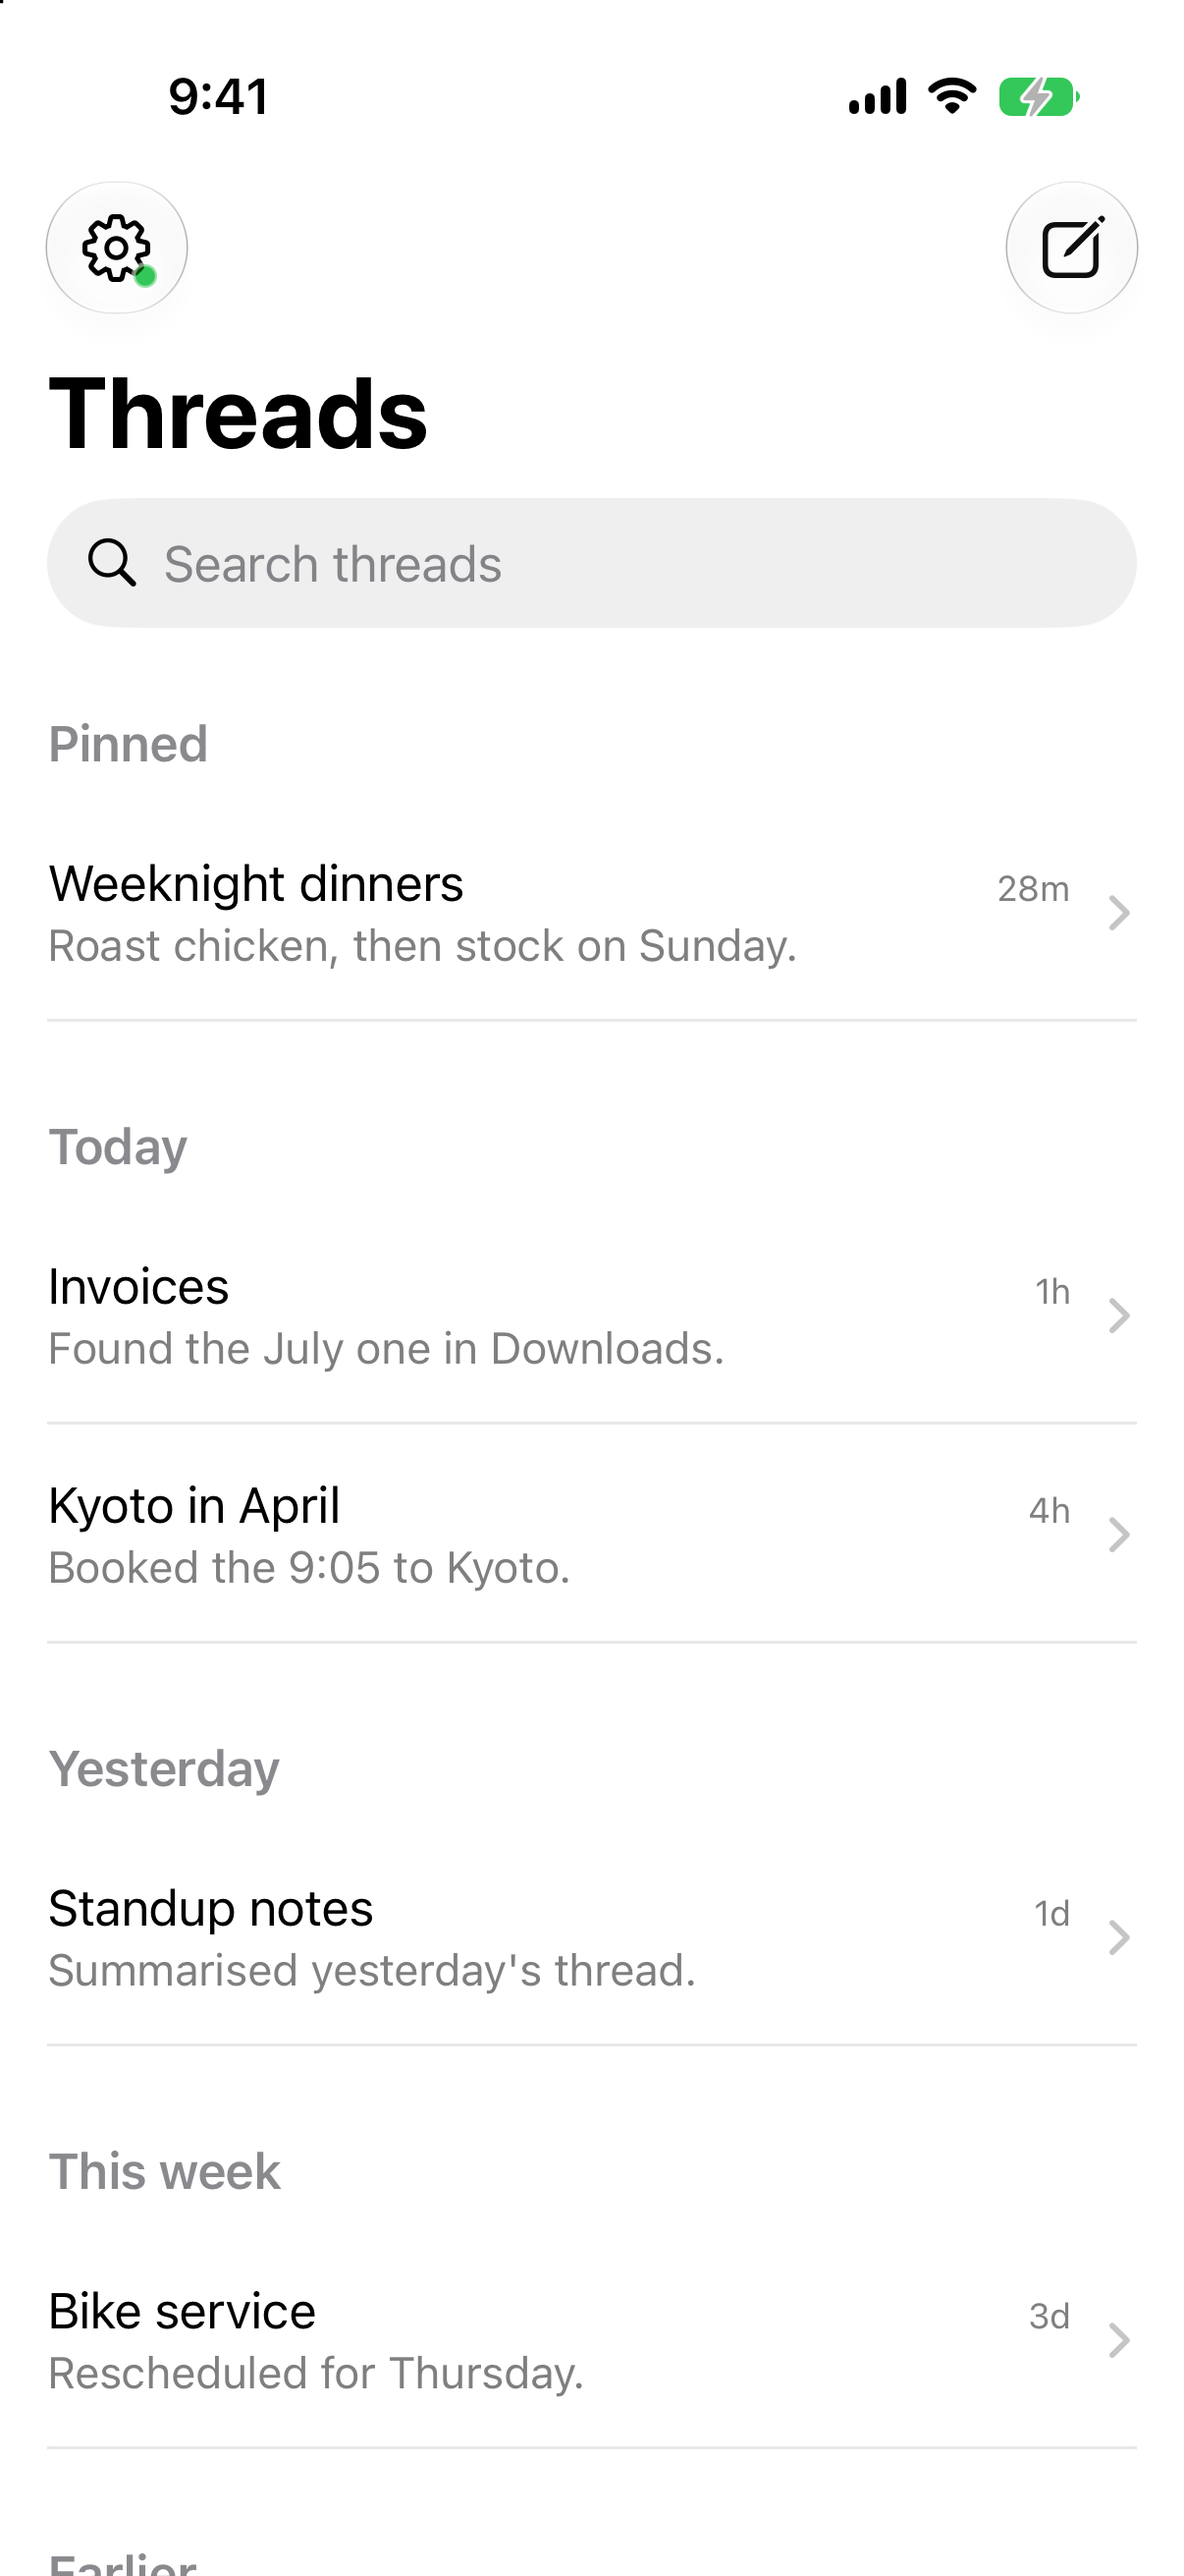
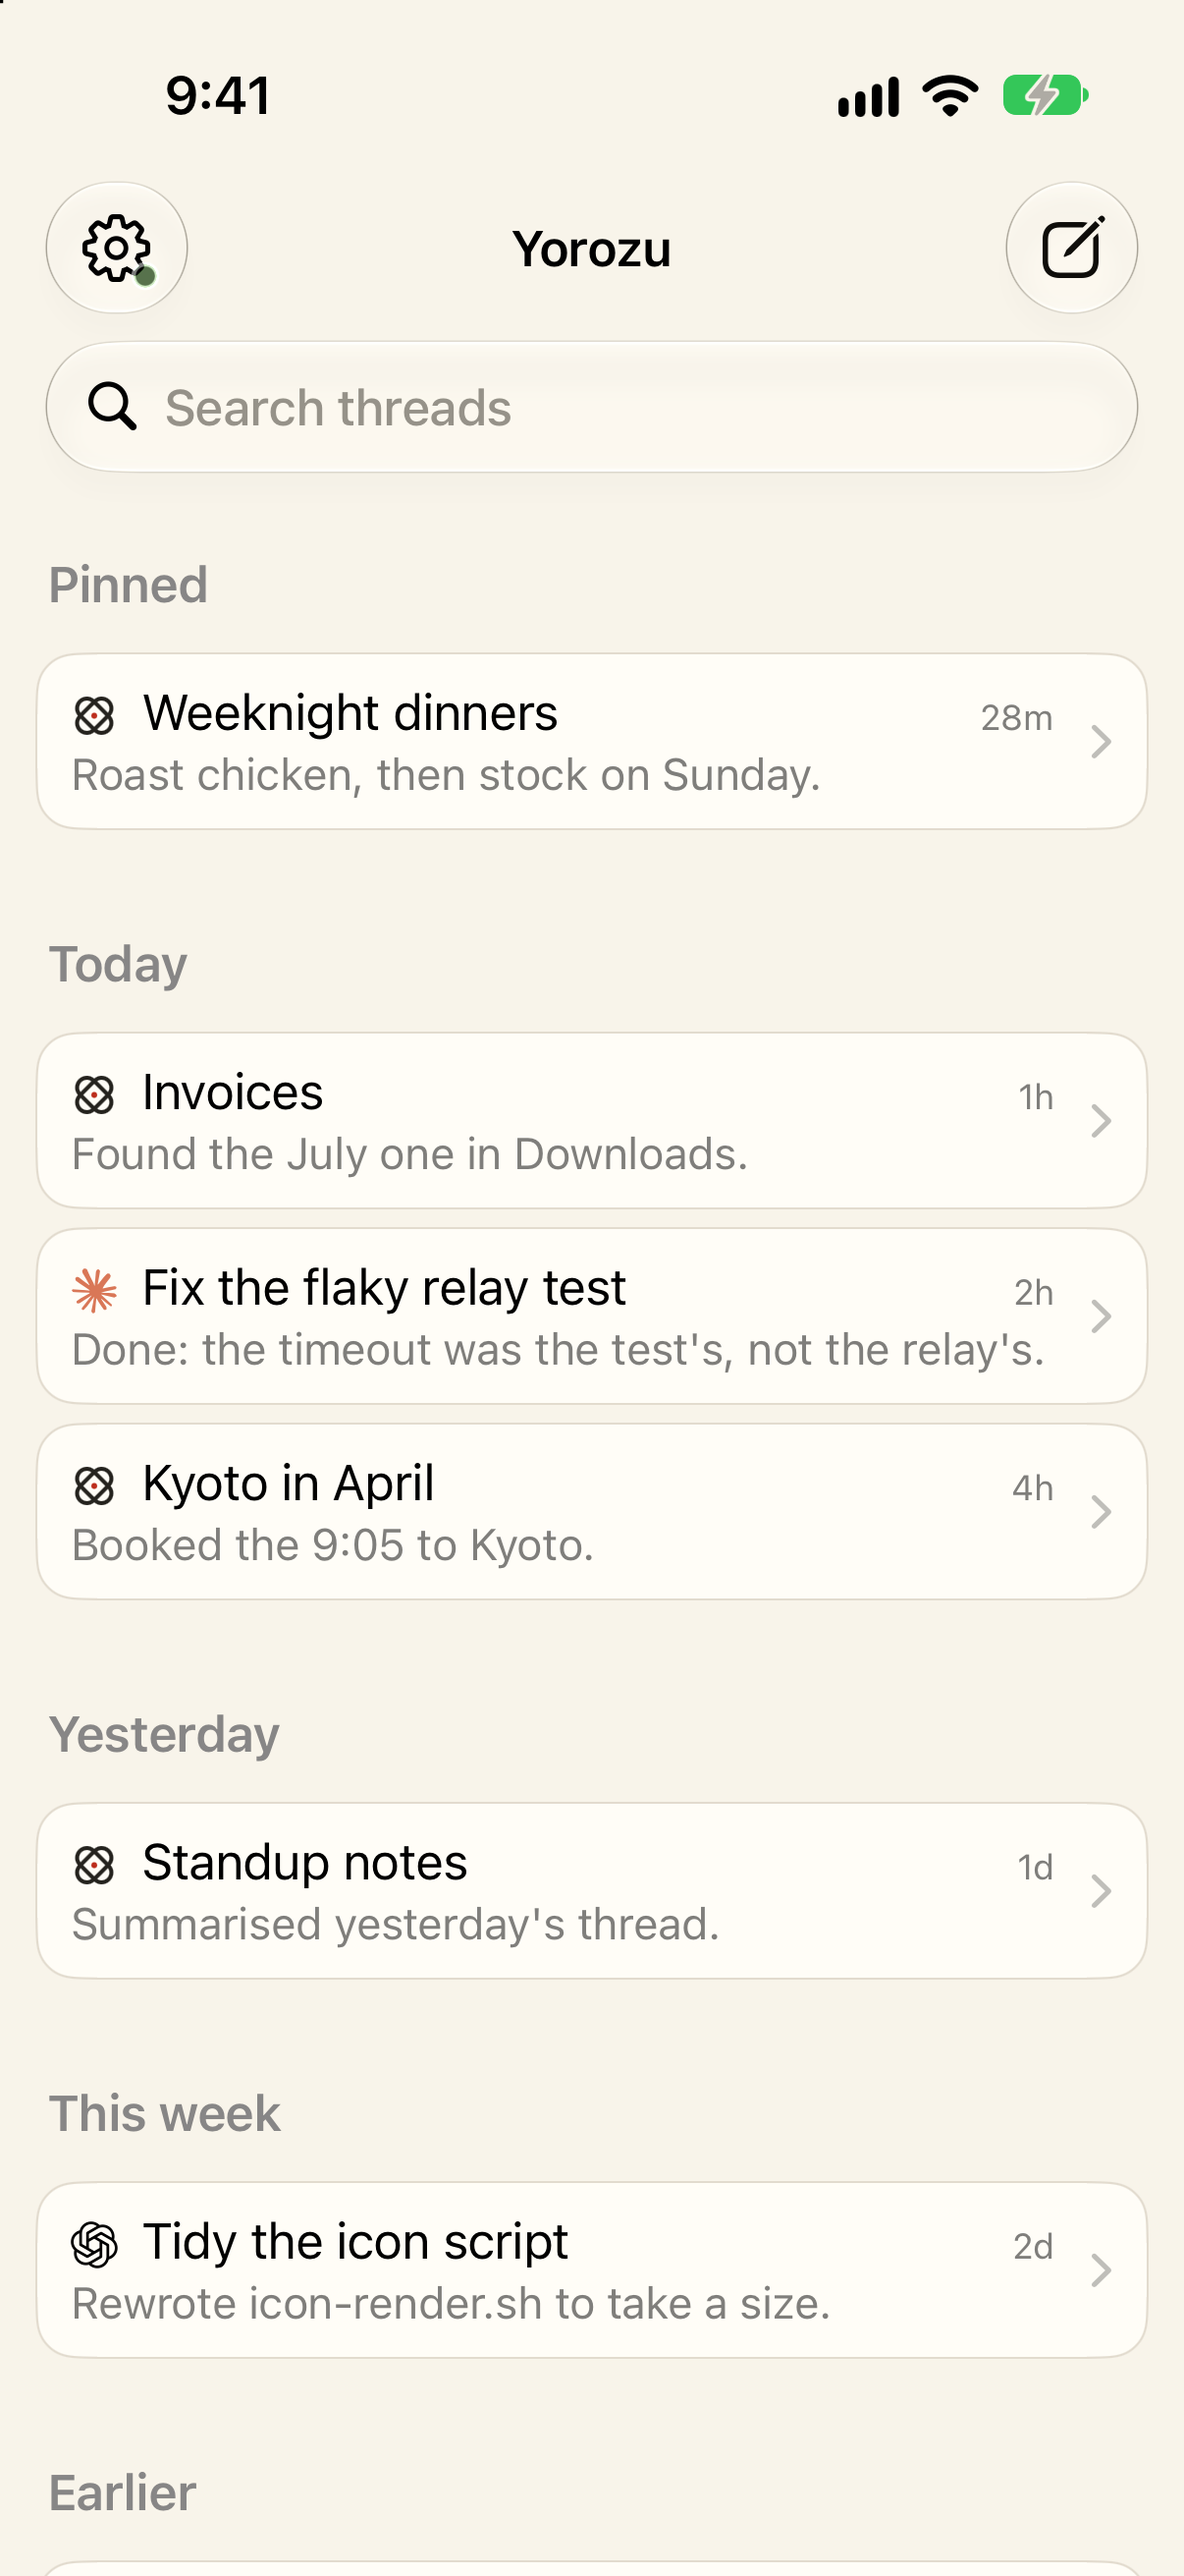
feat(ui): show Claude Code and Codex as their marks alone
Drop the "Codex" text beside the OpenAI Blossom in thread rows so both
coding agents are identified by their mark only; the agent name stays as
the VoiceOver label.

diff --git a/packages/shared-swift/Sources/YorozuShared/AgentIdentity.swift b/packages/shared-swift/Sources/YorozuShared/AgentIdentity.swift
@@ -45,8 +45,8 @@ public struct AgentMarkView: View {
     }
 }
 
-/// A compact, accessible identity for a coding-agent row. Codex keeps the OpenAI company mark
-/// paired with its product name because OpenAI does not publish a separate Codex product icon.
+/// A compact, accessible identity for a coding-agent row: the mark alone, with the agent's name
+/// for VoiceOver.
 public struct AgentIdentifierView: View {
     private let agent: ThreadAgent
     private let size: CGFloat
@@ -57,17 +57,10 @@ public struct AgentIdentifierView: View {
     }
 
     public var body: some View {
-        HStack(alignment: .firstTextBaseline, spacing: 4) {
-            AgentMarkView(agent, size: size)
-                // Sit the mark on the text's baseline the way a capital does, not above it.
-                .alignmentGuide(.firstTextBaseline) { $0.height * 0.8 }
-            if agent.markRequiresProductName {
-                Text(agent.label)
-                    .font(.caption2.weight(.medium))
-                    .foregroundStyle(.secondary)
-            }
-        }
-        .fixedSize()
+        AgentMarkView(agent, size: size)
+            // Sit the mark on the text's baseline the way a capital does, not above it.
+            .alignmentGuide(.firstTextBaseline) { $0.height * 0.8 }
+            .fixedSize()
         .accessibilityElement(children: .ignore)
         .accessibilityLabel(agent.label)
     }

diff --git a/packages/shared-swift/Sources/YorozuShared/ThreadListView.swift b/packages/shared-swift/Sources/YorozuShared/ThreadListView.swift
@@ -227,8 +227,7 @@ struct ThreadRow: View {
         HStack(alignment: .center, spacing: 10) {
             VStack(alignment: .leading, spacing: 2) {
                 HStack(alignment: .firstTextBaseline, spacing: 8) {
-                    // Every thread wears its agent's mark, Yorozu's own knot included. Codex pairs
-                    // OpenAI's mark with text because no Codex mark is published.
+                    // Every thread wears its agent's mark, Yorozu's own knot included.
                     AgentIdentifierView(thread.agent ?? .yorozu, size: mark)
                     highlightedText(thread.displayTitle)
                         .font(.body.weight(thread.isUnread ? .semibold : .regular))

diff --git a/packages/shared-swift/Sources/YorozuShared/Events.swift b/packages/shared-swift/Sources/YorozuShared/Events.swift
@@ -722,10 +722,6 @@ public enum ThreadAgent: String, Codable, Equatable, Sendable, CaseIterable, Ide
         }
     }
 
-    /// OpenAI does not distribute a Codex product mark, so its company mark stays paired with
-    /// the product name anywhere the surrounding UI does not already say “Codex”.
-    public var markRequiresProductName: Bool { self == .codex }
-
     /// Whether the agent needs a folder to work in. Yorozu works everywhere; the coding agents
     /// each run in one project.
     public var needsFolder: Bool { self != .yorozu }

diff --git a/packages/shared-swift/Tests/YorozuSharedTests/AgentIdentityTests.swift b/packages/shared-swift/Tests/YorozuSharedTests/AgentIdentityTests.swift
@@ -7,12 +7,6 @@ import Testing
     #expect(ThreadAgent.codex.mark == .openAI)
 }
 
-@Test func onlyTheOpenAICompanyMarkRequiresItsProductName() {
-    #expect(!ThreadAgent.yorozu.markRequiresProductName)
-    #expect(!ThreadAgent.claudeCode.markRequiresProductName)
-    #expect(ThreadAgent.codex.markRequiresProductName)
-}
-
 @Test func settingsAttributionNamesBothMarkOwnersAndRejectsEndorsement() {
     let notice = ProviderMarkAttribution.notice
     #expect(notice.contains("Anthropic"))

diff --git a/docs/provider-mark-assets.md b/docs/provider-mark-assets.md
@@ -17,7 +17,8 @@ color, aspect-ratio, or view-box edits and are rendered with original colors.
 
 OpenAI's Codex page, official `openai/codex` repository, and official brand download did not
 publish a separate distributable Codex product icon when inspected on 2026-09-21. Yorozu therefore
-uses the official OpenAI Blossom paired with visible `Codex` text, rather than inventing a mark.
+uses the official OpenAI Blossom on its own, rather than inventing a mark. The agent's name is
+kept for VoiceOver (`AgentIdentifierView`'s accessibility label).
 
 - Assets: `OpenAIBlossom.imageset/OpenAIBlossom-Black.svg` and
   `OpenAIBlossom.imageset/OpenAIBlossom-White.svg`
